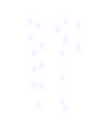
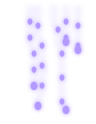
fix(render): stack a thread's haze and beads in its glow

diff --git a/tools/anime-art/subjects/cavelife.js b/tools/anime-art/subjects/cavelife.js
@@ -367,7 +367,7 @@ const threadGlow = (t, T) => bloom(mask(t.w, t.h, (fill, stroke) => {
   }
 }), T.glow, 2.2, 1, 1);
 const threadHaze = (t, T) => bloom(mask(t.w, t.h, (fill, stroke) => { for (const s of t.s) stroke(pathOf(s.p), .6); }), T.glow, 3, .42);
-function stacked(c, d) { const x = c.getContext('2d'); x.drawImage(d, 0, 0); return c; }
+function stacked(c, d) { const x = c.getContext('2d'); x.globalCompositeOperation = 'source-over'; x.drawImage(d, 0, 0); return c; }
 
 /* ---- Roots from the surface, drawn wet and split; only a bit of pale new growth at their tips gives light. ---- */
 const ROOT = { dark: '#2e2118', base: '#57432f', lite: '#7c6548', tip: '#a9b98a', glow: '#b4f07c' };
